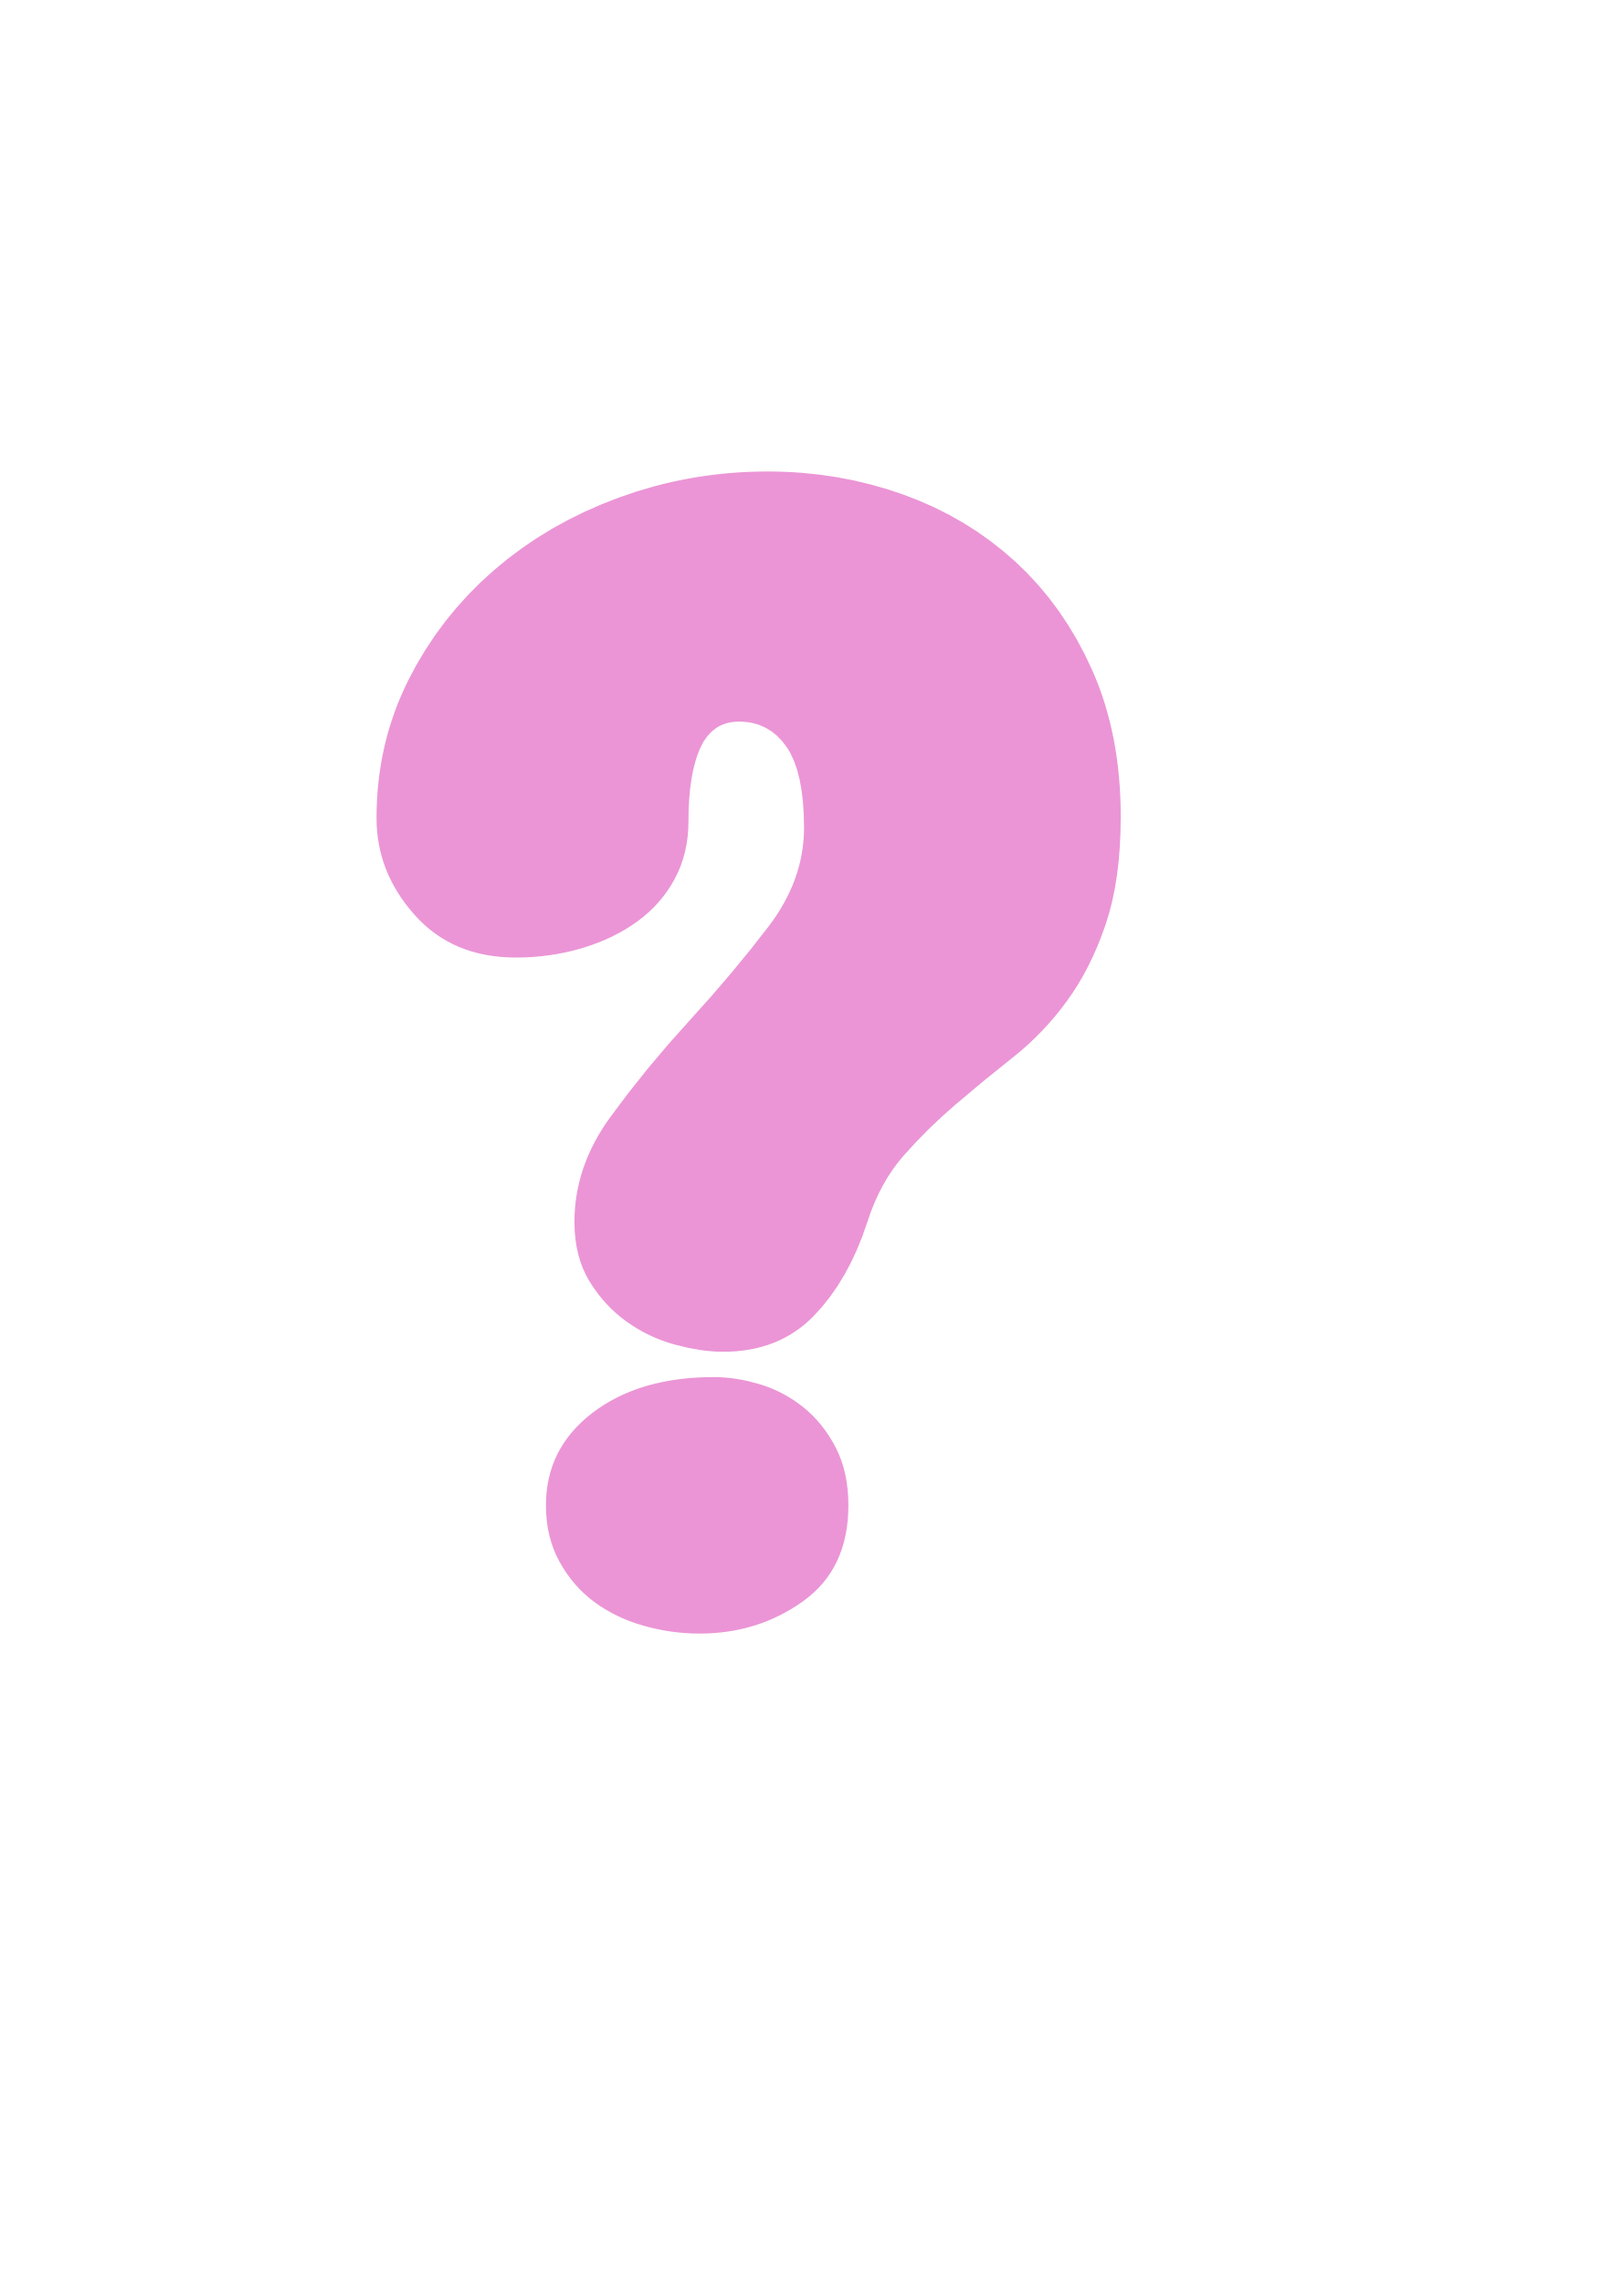
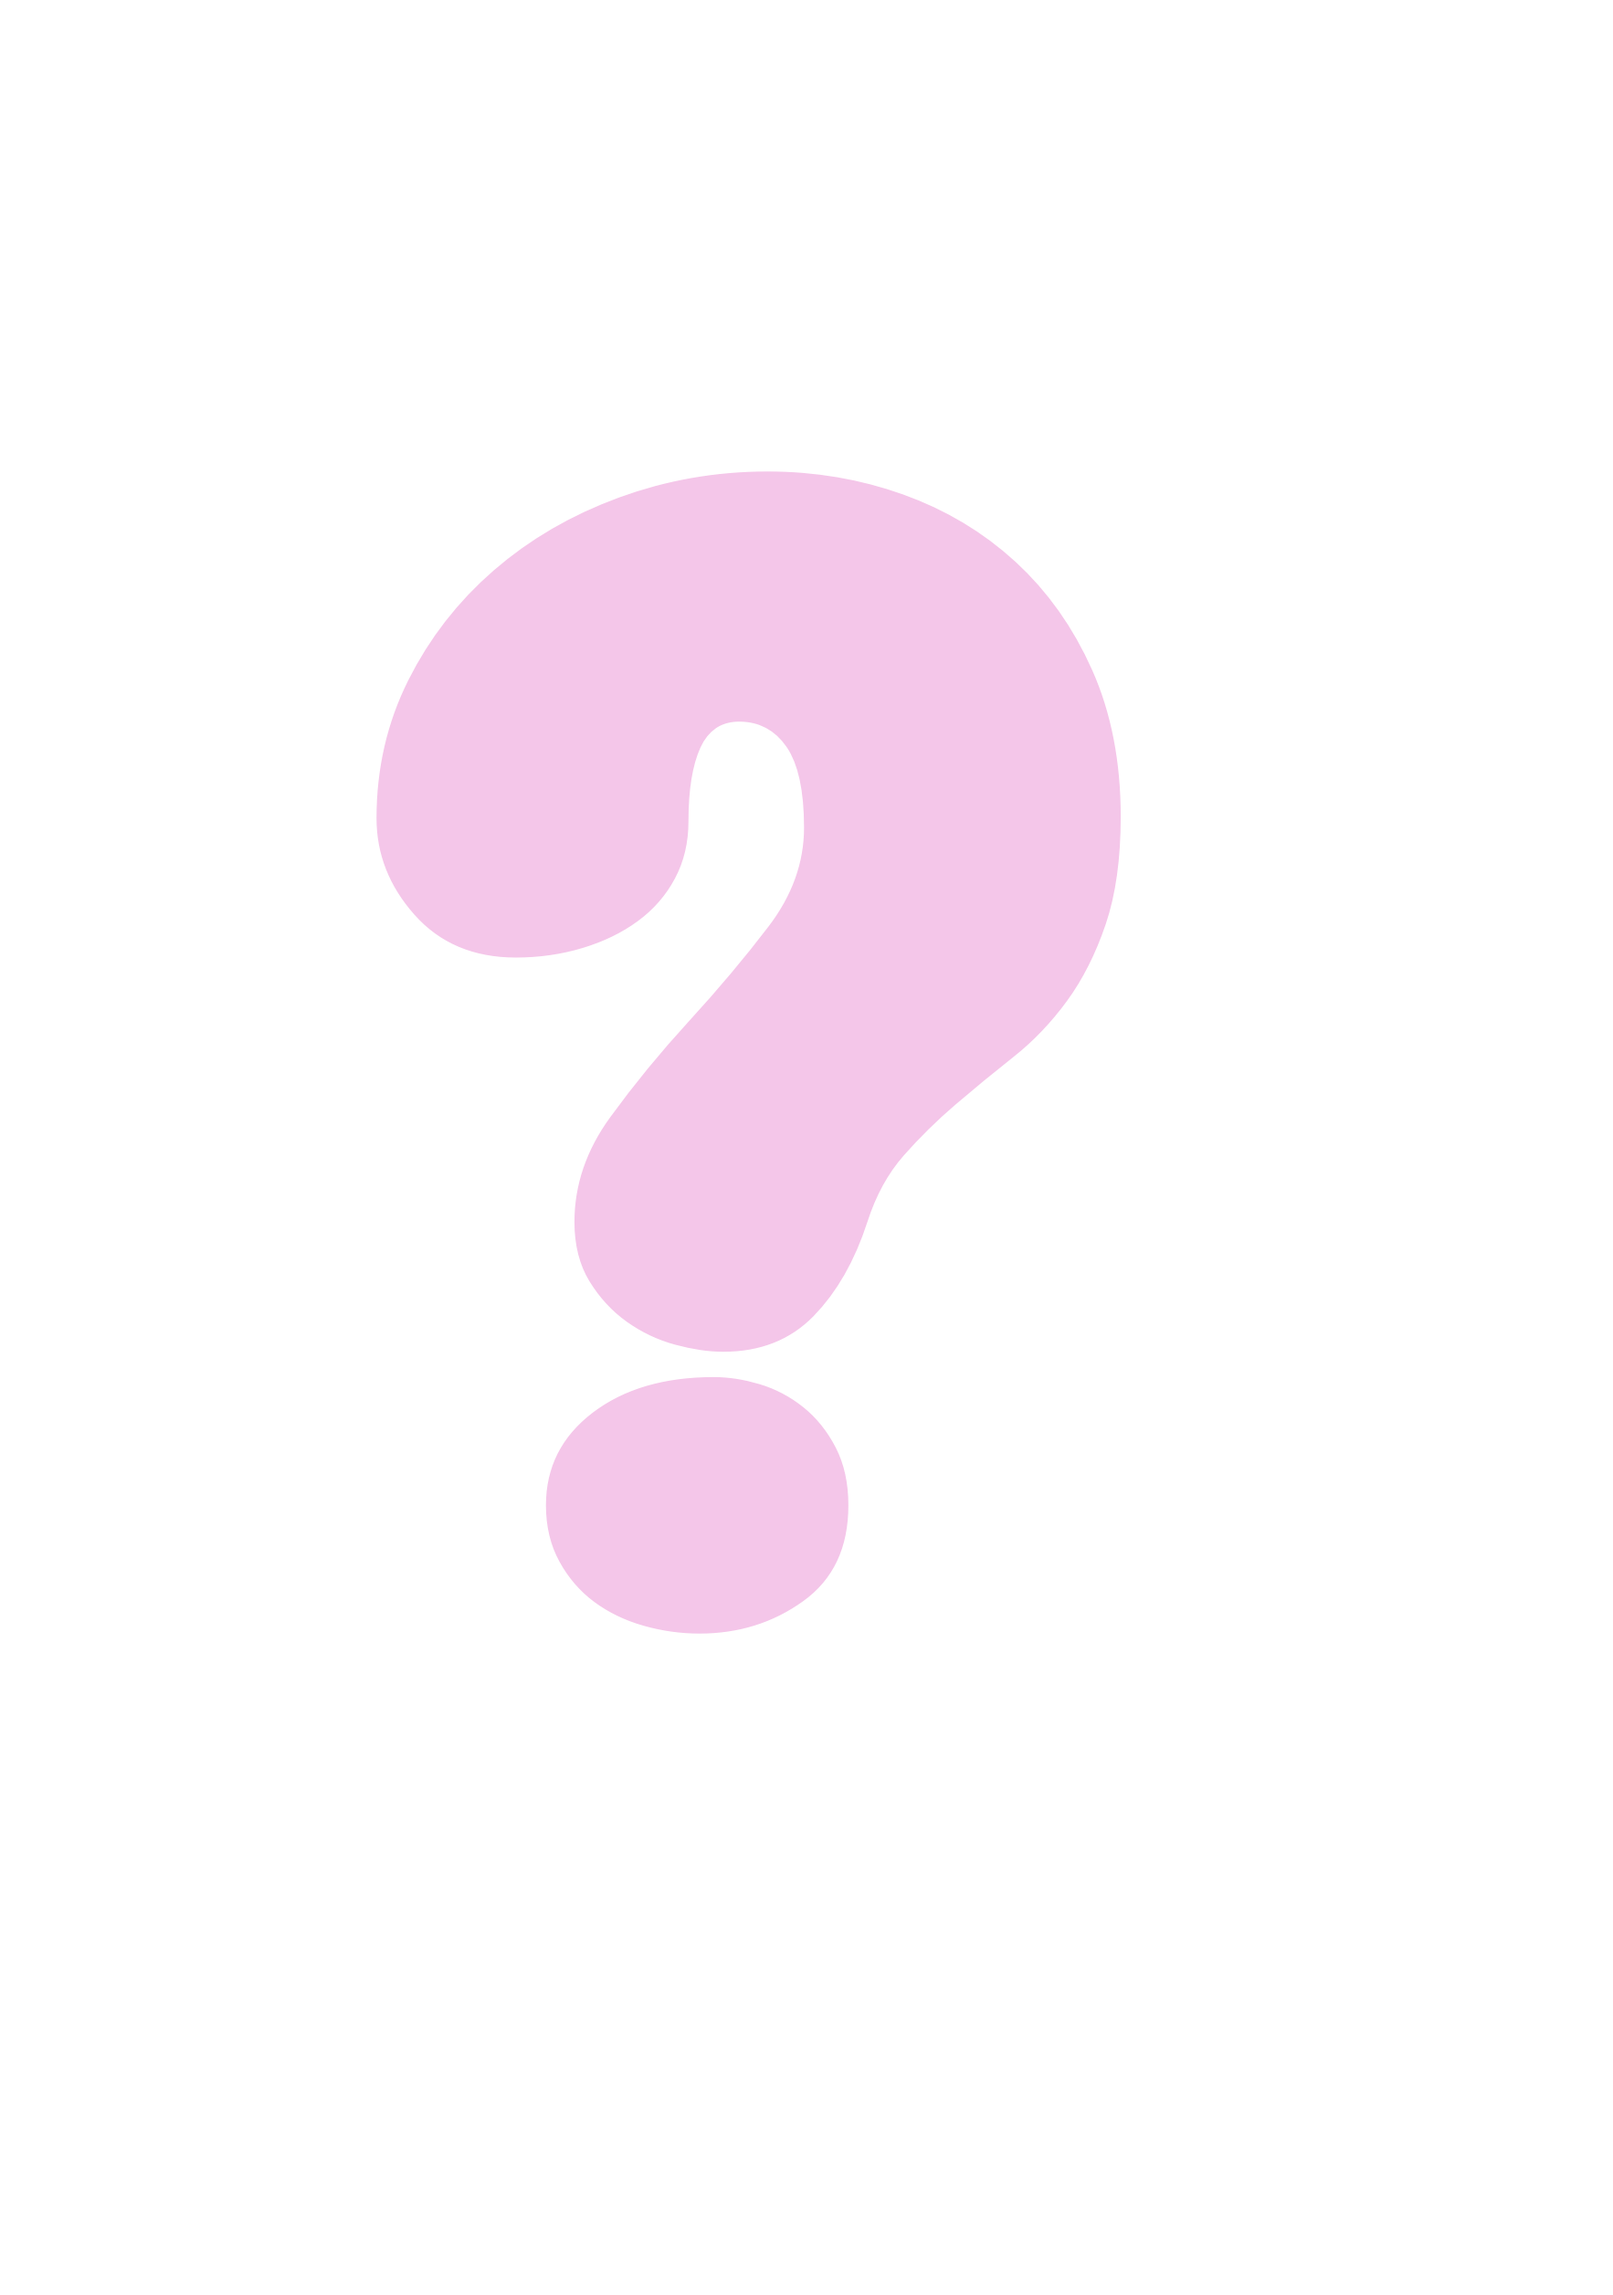
Added zoom slider to play screen

Changed region(s): [[0.218, 0.1862, 0.7163, 0.7139]]

diff --git a/randomcharactergenerator/Random Character Generator.py b/randomcharactergenerator/Random Character Generator.py
@@ -74,21 +74,43 @@ class Player(pg.sprite.Sprite):
         surf = pg.transform.scale_by(surf, .46)
         self.appearance = surf
         self.image = self.appearance
-        self.rect = self.image.get_frect(topleft=(settings.W * .5, settings.H * -.045))
+        self.rect = self.image.get_frect(center=(1300, 550))
+        self.initial_center_y = self.rect.centery
+        self.zoom_rect = self.rect
         
         # Animation
         self.tick = 1
         self.h = 2513 * .46
         self.w = 1766* .46
+        self.breathing = False
+        
+        self.twitch_time_remaining = 0
+        self.twitch_h = 1
+        self.twitch_w = 1
+        self.twitch_magnitude = .1
 
-    def update(self, dt):
+    def update(self, dt, zoom):
         self.tick += 1 * dt
+        if self.twitch_time_remaining > 0:
+            # Track time
+            self.twitch_time_remaining -= .04
+            self.twitch_time_remaining = round(self.twitch_time_remaining, 2)
+            # Change self.twitch_h and self.twitch_w to animate
+            self.twitch_h = 1 + numpy.sin(6.28319 * self.twitch_time_remaining) * self.twitch_time_remaining * self.twitch_magnitude
+            self.twitch_h = 1 - numpy.sin(6.28319 * self.twitch_time_remaining) * self.twitch_time_remaining * self.twitch_magnitude
+            
         speed = 1
-        magnitude = 30
-        self.h = 2513 + (numpy.sin(speed * self.tick) * magnitude * .5)
-        self.w = 1766 - (numpy.sin(speed * self.tick) * magnitude)
-        self.image = pg.transform.smoothscale(self.appearance, (self.w * .46, self.h * .46))
-        self.rect = self.image.get_frect(bottom = self.rect.bottom, centerx = self.rect.centerx)
+        magnitude = 10
+        if self.breathing:
+            img_x = 1766 * .46
+            img_y = 2513 * .46
+            self.w = img_x * self.twitch_w * (.7 + (.004 * zoom))
+            self.h = img_y * self.twitch_h * (.7 + (.004 * zoom))
+            self.zoom_rect = pg.transform.smoothscale(self.appearance, (self.w, self.h)).get_frect(center = self.zoom_rect.center)
+            self.w -= numpy.sin(speed * self.tick) * magnitude
+            self.h += numpy.sin(speed * self.tick) * magnitude * .5
+            self.image = pg.transform.smoothscale(self.appearance, (self.w, self.h))
+            self.rect = self.image.get_frect(centerx = self.rect.centerx, bottom = self.zoom_rect.bottom)
 
     def randomize_attributes(self):
         self.skin_colors_idx = randint(0, len(self.skin_colors) - 1)
@@ -112,9 +134,11 @@ class Player(pg.sprite.Sprite):
         self.randomize_attributes()
 
         # Draws character and updates self.image
+        self.breathing = True
         surf = self.return_image()
         surf = pg.transform.scale_by(surf, .46)
         self.appearance = surf
+        self.twitch_time_remaining = 1
         
     def return_image(self):
         # Draws character at max res and returns it
@@ -289,19 +313,29 @@ class BackgroundsButton(pg.sprite.Sprite):
 
 
 class Slider(pg.sprite.Sprite):
-    def __init__(self, groups, surfs, pos, user_settings, name):
+    def __init__(self, groups, surfs, pos, user_settings, name, axis):
         super().__init__(groups)
         self.pos = pos
+        self.initial_pos = pos
         self.surfs = surfs
         self.selected = False
         self.in_use = False
         self.image = self.surfs['unselected']
         self.rect = self.image.get_frect(center = self.pos)
-        self.bounds = (self.rect.centerx - 600, self.rect.centerx)
-        self.name = name
+        self.axis = axis
         self.user_settings = user_settings
-        self.idx = int(self.user_settings[name])
-        self.rect.centerx += (self.idx * 6) - 600
+        if self.axis == 'x':
+            self.length = 6
+            self.bounds = (self.rect.centerx - (100 * self.length), self.rect.centerx)
+            self.idx = int(self.user_settings[name])
+            self.rect.centerx += (self.idx * self.length) - (100 * self.length)
+        else:
+            self.length = 4
+            self.bounds = (self.rect.centery - (100 * self.length), self.rect.centery)
+            self.idx = 70
+            self.rect.centery -= self.idx * self.length
+        self.name = name
+        
         
     def update(self, display):
         if not self.in_use:
@@ -320,12 +354,24 @@ class Slider(pg.sprite.Sprite):
             if not pg.mouse.get_pressed()[0]:
                 self.in_use = False
             else: 
-                mouse_x = pg.mouse.get_pos()[0]
-                if mouse_x > self.bounds[0] and mouse_x < self.bounds[1]:
-                    self.rect.center = (mouse_x, self.pos[1])
-                self.idx = 100 - round((self.bounds[1] - self.rect.centerx) / 6)
-                if self.idx < 5:
-                    self.idx = 0
+                if self.axis == 'x':
+                    mouse_x = pg.mouse.get_pos()[0]
+                    if mouse_x > self.bounds[0] and mouse_x < self.bounds[1]:
+                        self.rect.center = (mouse_x, self.pos[1])
+                    elif mouse_x < self.bounds[0]:
+                        self.rect.centerx = self.initial_pos[0] - (100 * self.length)
+                    else:
+                        self.rect.centerx = self.initial_pos[0]
+                    self.idx = 100 - round((self.bounds[1] - self.rect.centerx) / self.length)
+                else:
+                    mouse_y = pg.mouse.get_pos()[1]
+                    if mouse_y > self.bounds[0] and mouse_y < self.bounds[1]:
+                        self.rect.center = (self.pos[0], mouse_y)
+                    elif mouse_y < self.bounds[0]:
+                        self.rect.centery = self.initial_pos[1] - (self.length * 100)
+                    else: 
+                        self.rect.centery = self.initial_pos[1]
+                    self.idx = round((self.bounds[1] - self.rect.centery) / self.length)
             
     def check_for_input(self):
         pos = (pg.mouse.get_pos())
@@ -463,6 +509,11 @@ class Game:
                              'selected': pg.image.load(resource_path(join('assets', 'img', 'ui', 'slider_knob_selected.png'))).convert_alpha()
         }
         
+        self.zoom_slider_surfs = {
+                             'unselected': pg.image.load(resource_path(join('assets', 'img', 'ui', 'zoom_slider_knob_unselected.png'))).convert_alpha(),
+                             'selected': pg.image.load(resource_path(join('assets', 'img', 'ui', 'slider_knob_selected.png'))).convert_alpha()
+        }
+        
         self.checkbox_surfs = {
                                'unselected': pg.image.load(resource_path(join('assets', 'img', 'ui', 'checkbox_unchecked.png'))).convert_alpha(),
                                'unselected_hover': pg.image.load(resource_path(join('assets', 'img', 'ui', 'checkbox_unchecked_hover.png'))).convert_alpha(),
@@ -528,7 +579,7 @@ class Game:
                                      'selected': pg.image.load(resource_path(join('assets', 'img', 'ui', 'socials_button_18_selected.png'))).convert_alpha(),
         }
         
-        self.backgrounds_label_surf = pg.image.load(resource_path(join('assets', 'img', 'ui', 'backgrounds_label.png'))).convert_alpha()
+        self.backgrounds_label_surf = pg.image.load(resource_path(join('assets', 'img', 'ui', 'play_screen_unresponsive_ui.png'))).convert_alpha()
         
         # Imports: Background Hearts
         self.heart_surf = pg.image.load(resource_path(join('assets', 'img', 'ui', 'heart.png'))).convert_alpha()
@@ -652,9 +703,9 @@ class Game:
         return_button = Button(self.options_sprites, 'return to main menu', self.return_button_surfs, (settings.W / 2, 965), self.font, 'dark')
         
         fullscreen_checkbox = Checkbox(self.options_sprites, self.checkbox_surfs, (1480, 260), self.user_settings, "Fullscreen")
-        master_volume_slider = Slider(self.options_sprites, self.slider_surfs, (1750, 430), self.user_settings, "Master Volume")
-        music_volume_slider = Slider(self.options_sprites, self.slider_surfs, (1750, 610), self.user_settings, "Music Volume")
-        sfx_volume_slider = Slider(self.options_sprites, self.slider_surfs, (1750, 790), self.user_settings, "SFX Volume")
+        master_volume_slider = Slider(self.options_sprites, self.slider_surfs, (1750, 430), self.user_settings, "Master Volume", "x")
+        music_volume_slider = Slider(self.options_sprites, self.slider_surfs, (1750, 610), self.user_settings, "Music Volume", "x")
+        sfx_volume_slider = Slider(self.options_sprites, self.slider_surfs, (1750, 790), self.user_settings, "SFX Volume", "x")
                 
         # Loop
         while self.running:
@@ -767,7 +818,7 @@ class Game:
         self.player = Player(self.time_sensitive_sprites, self.player_parts)
                 
         play_bg = pg.image.load(resource_path(join('assets', 'img', 'ui', 'halftone_bg.png'))).convert_alpha()
-        backgrounds_label = BackgroundsLabel(self.play_sprites, self.backgrounds_label_surf, (245, 675))
+        backgrounds_label = BackgroundsLabel(self.play_sprites, self.backgrounds_label_surf, (settings.W / 2, settings.H / 2))
         halftone_bg_button = BackgroundsButton(self.play_sprites, 'halftone', 'selected', self.background_button_surfs, (450, 675))
         outdoors_bg_button = BackgroundsButton(self.play_sprites, 'outdoors', 'unselected', self.background_button_surfs, (550, 675))
         hotel_bg_button = BackgroundsButton(self.play_sprites, 'hotel', 'unselected', self.background_button_surfs, (650, 675))
@@ -775,7 +826,9 @@ class Game:
         
         randomize_button = Button(self.play_sprites, 'randomize', self.randomize_button_surfs, (470, 260), self.playscreen_button_font, 'light')
         save_image_button = Button(self.play_sprites, 'save image', self.save_image_button_surfs, (495, 465), self.playscreen_button_font, 'light')
-        back_button = Button(self.play_sprites, 'main menu', self.back_button_surfs, (312, 955), self.playscreen_button_font, 'light')
+        back_button = Button(self.play_sprites, 'main menu', self.back_button_surfs, (450, 890), self.playscreen_button_font, 'light')
+        
+        zoom_slider = Slider(self.play_sprites, self.zoom_slider_surfs, (1810, 725), self.user_settings, 'zoom', 'y')
 
         # Loop
         while self.running:
@@ -820,13 +873,14 @@ class Game:
                     hotel_bg_button.change_appearance(bg)
                     piza_bg_button.change_appearance(bg)
 
-                        
+            zoom = zoom_slider.give_idx()
+            
             # Render
             self.display.blit(self.background_surfs[bg])
             self.play_sprites.draw(self.display)
             self.play_sprites.update(self.display)
             self.time_sensitive_sprites.draw(self.display)
-            self.time_sensitive_sprites.update(self.dt)
+            self.time_sensitive_sprites.update(self.dt, zoom)
             pg.display.flip()
 
         pg.quit()
